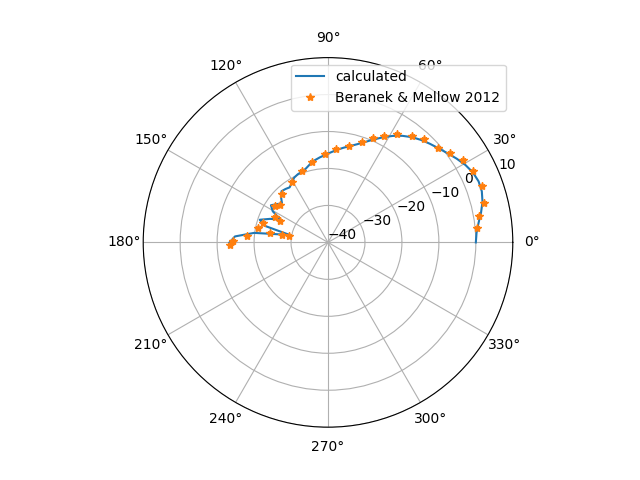
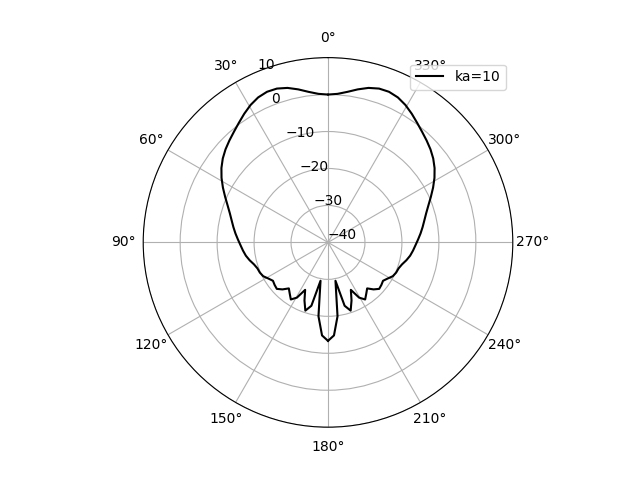
closes #16 skip travis

diff --git a/examples/cap_sphere.py b/examples/cap_sphere.py
@@ -29,20 +29,20 @@ R_v = a_v/sin(alpha_v) #mpmath.mpf(0.01)
 
 angles = mpmath.linspace(0,mpmath.pi,50)
 input_params = {'k':k_v, 'R':R_v, 'alpha':alpha_v}
-_, rato = cap_in_sphere_directivity(angles, input_params)
+_, db_ratio = cap_in_sphere_directivity(angles, input_params)
+
+# save time by concatenating the same values for +ve and -ve angles
 
 plt.figure()
 a0 = plt.subplot(111, projection='polar')
-plt.plot(np.array(angles), rato, label='calculated')
+plt.plot(np.array(angles), db_ratio, 'k' ,label='ka=10')
+plt.plot(-np.array(angles), db_ratio, 'k' )
 plt.ylim(-40,10);plt.yticks(np.arange(-40,20,10))
-
+plt.ylim(-40,10);plt.yticks(np.arange(-40,20,10))
+a0.set_theta_zero_location('N')
 a0.set_xticks(np.arange(0,2*np.pi,np.pi/6))
-df = pd.read_csv('fig12-17.csv')
-plt.plot(np.radians(df['deg']), df['rel_db_0deg'],'*',
-         label='Beranek & Mellow 2012') 
-# Data digitised from figure 12.17 using WebPlotDigitizer (Ankit Rohatgi)
 plt.legend()
-
+plt.savefig('capsphere_ka-10.0_dps=50.png')
 #%%
 #.. image:: ../_static/capsphere_ka-10.0_dps=50.png
 #  :width: 400
